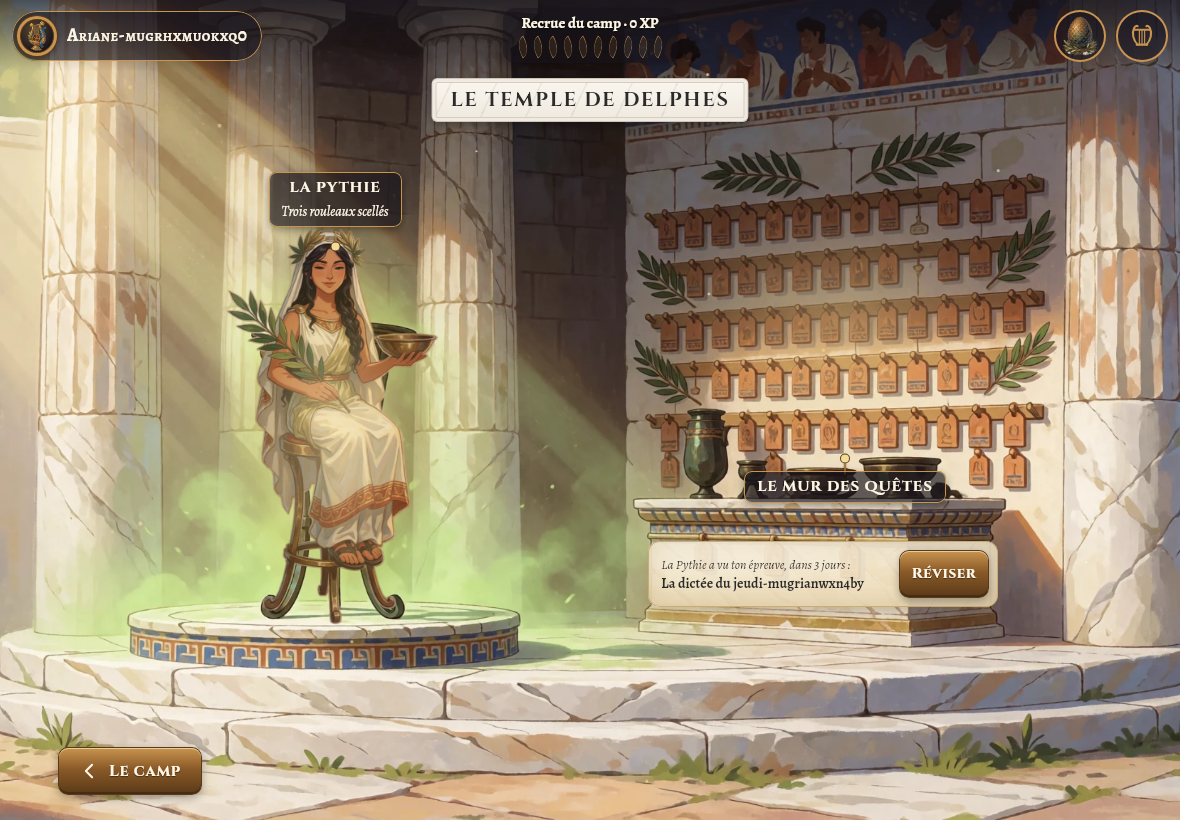
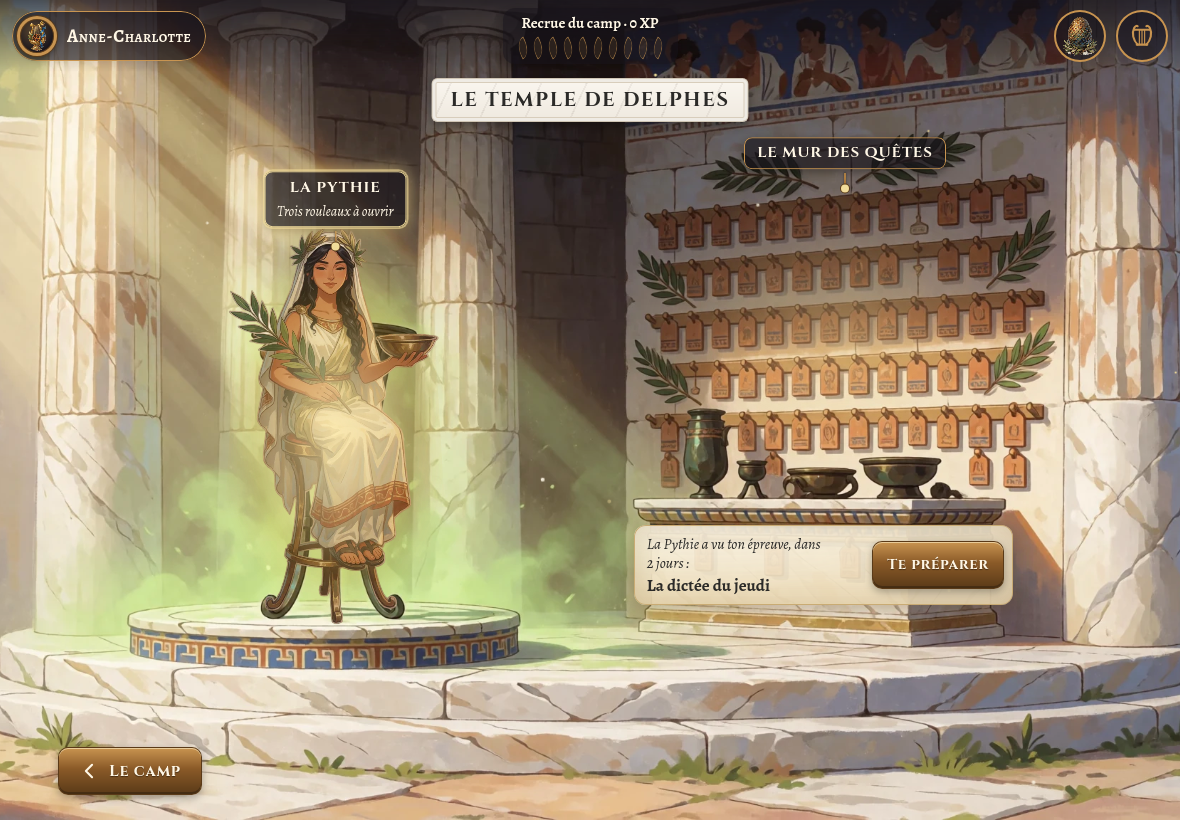
Immersion wave: playability walk with real names and the new objects; UI3a screenshots refreshed
- The walk uses Anne-Charlotte, Élise-Marguerite, « La dictée du jeudi » and « Les fées de la
  clairière » (Ruling W12), deleting an earlier walk's copies first; new shots a03b (seal open),
  a04b (both names on their shields), a06b (the owl's hint), a07b (other levels), a09b (a photo in
  the lens); a04 fills two seal slots, a11 opens a never-copied work, the rotate still is paused
  mid-turn.
- WALK_OUT picks the output: a git-ignored scratch dir under web/test-results by default, or
  docs/reviews/ui3 to refresh the review baseline (this commit); compose.e2e.yaml passes it through.
- Small fixes seen in the shots: the altar card's « : » and « 2 jours » no longer wrap alone
  (narrow no-break space in ProphecyCard, no-break space in prophecyWhen).

diff --git a/web/e2e/playability-ui3.spec.ts b/web/e2e/playability-ui3.spec.ts
@@ -1,5 +1,6 @@
 import { test, expect } from './crashGuard';
-import type { Page } from '@playwright/test';
+import type { APIRequestContext, Page } from '@playwright/test';
+import { posix } from 'node:path';
 import {
   chooseLevel,
   closeOverlay,
@@ -10,18 +11,42 @@ import {
   redScan,
   skipOnboarding,
   stubSpeech,
-  uniqueName,
   waitForSceneSettled,
 } from './helpers';
 
-// UI3 playability walk (scenes spec §10): iPad-size screenshots of every place and overlay into
-// docs/reviews/ui3/<project>-<id>-<name>.png for the Opus playability/immersion review ("does
-// anything still look like a school form?"), then one `?debug` screenshot per scene to check the
-// hand-authored hotspots against their landmarks (docs/art/scenes.md). UI3a: title, library tent,
-// Delphi. UI3b appends its sections to SECTIONS and DEBUG_SHOTS.
-// Run: scripts/playwright.sh --config playwright.playability.config.ts playability-ui3
+// UI3 playability walk (scenes spec §10): iPad-size screenshots of every place and overlay,
+// <project>-<id>-<name>.png, for the Opus playability/immersion review ("does anything still look
+// like a school form?"), then one `?debug` screenshot per scene to check the hand-authored hotspots
+// against their landmarks (docs/art/scenes.md). UI3a: title, library tent, Delphi. UI3b appends its
+// sections to SECTIONS and DEBUG_SHOTS.
+//
+// Where the shots go - WALK_OUT, a path relative to the repo root (or absolute in the container):
+// - unset: web/test-results/walk-ui3, a scratch dir (git-ignored), so a walk run to look at the
+//   places never dirties the tracked review baseline:
+//     scripts/playwright.sh --config playwright.playability.config.ts playability-ui3
+// - docs/reviews/ui3: deliberately refreshes the review baseline (tracked PNGs), for a re-review:
+//     WALK_OUT=docs/reviews/ui3 scripts/playwright.sh --config playwright.playability.config.ts playability-ui3
+// compose.e2e.yaml passes WALK_OUT into the Playwright container.
+const OUT = posix.resolve('/work', process.env.WALK_OUT || 'web/test-results/walk-ui3');
 
-const OUT = '/work/docs/reviews/ui3';
+// Playability #26: a real long accented name shows real truncation. The playability config runs
+// one worker and only ipad-landscape walks the scenes (Ruling W12), so fixed names are safe - but
+// an earlier walk's copies are deleted first so the ritual never meets « Ce nom est déjà pris. ».
+const HERO = 'Anne-Charlotte';
+const LOCKED = 'Élise-Marguerite';
+const PROPHECY_TITLE = 'La dictée du jeudi';
+const DESK_TITLE = 'Les fées de la clairière';
+
+async function clearEarlierWalk(request: APIRequestContext) {
+  const profiles = (await (await request.get('/api/profiles')).json()) as { id: number; name: string }[];
+  for (const p of profiles.filter((x) => x.name === HERO || x.name === LOCKED)) {
+    expect((await request.delete(`/api/profiles/${p.id}`)).status()).toBe(204);
+  }
+  const texts = (await (await request.get('/api/texts')).json()) as { id: number; title: string }[];
+  for (const t of texts.filter((x) => x.title === PROPHECY_TITLE || x.title === DESK_TITLE)) {
+    expect((await request.delete(`/api/texts/${t.id}`)).status()).toBe(204);
+  }
+}
 
 interface Walk {
   page: Page;
@@ -113,6 +138,13 @@ async function titleSection(w: Walk) {
   await chooseLevel(ritual, '10H');
   await shot(w, 'a03-title-naming-ritual');
   await noRed(w, 'naming ritual');
+  const sealToggle = ritual.getByRole('button', { name: "Protéger ton bouclier d'un sceau" });
+  await sealToggle.click();
+  await expect(sealToggle).toHaveAttribute('aria-expanded', 'true');
+  await expect(ritual.getByLabel('Ton sceau à quatre chiffres')).toBeVisible();
+  await shot(w, 'a03b-title-ritual-seal-open');
+  await sealToggle.click();
+  await expect(sealToggle).toHaveAttribute('aria-expanded', 'false');
   await ritual.getByRole('button', { name: 'Accrocher mon bouclier' }).click();
   await expectCamp(page);
   w.profileId = Number(page.url().match(/#\/p\/(\d+)\//)?.[1]);
@@ -120,18 +152,25 @@ async function titleSection(w: Walk) {
   await skipOnboarding(page);
   await skipGreeting(w, 'camp');
 
-  // A protected hero's sealed parchment. `w.heroName` is already unique (uniqueName); appending a
-  // fixed suffix (no second uniqueName wrap - profile.name has a 30-char server limit, and stacking
-  // two random suffixes overflowed it, so the create 422'd and left `locked` undefined).
+  // A protected hero's wax seal, two digits in: the elision « Le sceau d'Élise-Marguerite ».
   const res = await page.request.post('/api/profiles', {
-    data: { name: `${w.heroName}-code`, avatar: 'trident', level: '10H', pin: '4321' },
+    data: { name: LOCKED, avatar: 'trident', level: '10H', pin: '4321' },
   });
   expect(res.ok(), await res.text()).toBeTruthy();
   const locked = (await res.json()).id as number;
   await page.goto(`/#/p/${locked}/camp`);
   await expect(page.getByTestId('pin-gate')).toBeVisible();
+  await page.getByLabel('Tes quatre chiffres').fill('43');
   await shot(w, 'a04-title-pin-seal');
   await noRed(w, 'pin seal');
+
+  // Playability #26: the two real names on their shields (a02 ran before either existed).
+  await page.goto('/');
+  await enterTitle(page);
+  await expect(page.getByTestId(`title-hero-${w.profileId}`)).toBeVisible();
+  await expect(page.getByTestId(`title-hero-${locked}`)).toBeVisible();
+  await waitForOverlaySettled(page, 'title-shields');
+  await shot(w, 'a04b-title-shields-named');
 }
 
 async function librarySection(w: Walk) {
@@ -146,14 +185,29 @@ async function librarySection(w: Walk) {
   await skipGreeting(w, 'library');
   await shot(w, 'a06-library-tent');
   await noRed(w, 'library tent');
+  // Playability #23: the owl is a character - tapped, she gives a hint in the dialogue box.
+  await page.getByTestId('library-owl').click();
+  await expect(page.getByTestId('dialogue-box')).toBeVisible();
+  await settleDialogue(page);
+  await shot(w, 'a06b-library-owl-hint');
+  await page.getByTestId('dialogue-skip').click();
+  await expect(page.getByTestId('dialogue-box')).toHaveCount(0);
   await page.getByTestId('library-shelves').click();
   await waitForOverlaySettled(page, 'overlay-shelves');
   await shot(w, 'a07-library-shelves');
   await noRed(w, 'shelves');
+  const shelves = page.getByTestId('overlay-shelves');
+  await shelves.getByRole('button', { name: 'Autres niveaux' }).click();
+  await chooseLevel(shelves, 'Tous');
+  const others = shelves.getByRole('heading', { name: 'Autres parchemins' });
+  await others.scrollIntoViewIfNeeded();
+  await expect(others).toBeInViewport();
+  await shot(w, 'a07b-library-shelves-other-levels');
   await closeOverlay(page);
   await page.getByTestId('library-desk').click();
   await waitForOverlaySettled(page, 'overlay-desk');
-  await page.getByLabel('Titre').fill(uniqueName('Les fées de la clairière'));
+  await page.getByLabel('Titre').fill(DESK_TITLE);
+  // 13 words: the gauge asks for more (« il en faut au moins 80 »).
   await page.getByLabel('Texte').fill('Les fées dansent dans la clairière. Elles chantent et les oiseaux les écoutent.');
   await shot(w, 'a08-library-desk');
   await noRed(w, 'desk');
@@ -161,11 +215,18 @@ async function librarySection(w: Walk) {
   await page.getByTestId('library-lens').click();
   await waitForOverlaySettled(page, 'overlay-lens');
   await shot(w, 'a09-library-lens');
+  const lens = page.getByTestId('overlay-lens');
+  await lens.getByTestId('scan-input').first().setInputFiles('/work/server/tests/fixtures/scan/handout.png');
+  await expect(lens.getByTestId('btn-scan-read')).toBeVisible();
+  await shot(w, 'a09b-library-lens-photo');
   await closeOverlay(page);
   await page.getByTestId('library-portal').click();
   await waitForOverlaySettled(page, 'overlay-portal');
   await shot(w, 'a10-library-portal');
-  await page.getByTestId('overlay-portal').getByTestId('work-card').first().click();
+  // A never-copied work shows the scribes' next step; the shared database may hold copies of all.
+  const portal = page.getByTestId('overlay-portal');
+  const never = portal.locator('[data-testid="work-card"][data-status="never"]');
+  await ((await never.count()) > 0 ? never : portal.getByTestId('work-card')).first().click();
   await waitForOverlaySettled(page, 'overlay-portal-work');
   await shot(w, 'a11-library-portal-work');
   await noRed(w, 'portal');
@@ -179,7 +240,7 @@ async function delphiSection(w: Walk) {
   const { page } = w;
   const due = new Date(Date.now() + 3 * 86_400_000).toISOString().slice(0, 10);
   await createText(page.request, {
-    title: uniqueName('La dictée du jeudi'),
+    title: PROPHECY_TITLE,
     body: 'Les fées dansent dans la clairière. Elles chantent et les oiseaux les écoutent.',
     level: '10H',
     due_date: due,
@@ -190,6 +251,7 @@ async function delphiSection(w: Walk) {
   await expectScene(page, 'delphi');
   await expect(page.getByTestId('dialogue-box')).toBeVisible();
   await settleDialogue(page);
+  await expect(page.getByTestId('dialogue-text')).toContainText('Approche.');
   await shot(w, 'a12-delphi-pythia-greeting');
   await skipGreeting(w, 'delphi');
   await shot(w, 'a13-delphi-temple');
@@ -197,8 +259,11 @@ async function delphiSection(w: Walk) {
   await page.getByTestId('delphi-pythia').click();
   await waitForOverlaySettled(page, 'overlay-pythia');
   await shot(w, 'a14-delphi-pythia-scrolls');
-  await page.getByTestId('scroll-ecole').getByTestId('scroll-open').click();
-  await expect(page.getByTestId('oracle-monster-hydre')).toBeVisible();
+  const oracle = page.getByTestId('overlay-pythia');
+  await oracle.getByTestId('scroll-ecole').getByTestId('scroll-open').click();
+  await expect(oracle.getByTestId('oracle-monster-hydre')).toBeVisible();
+  // The school scroll has finished unrolling (the same wait as scenes-delphi.spec.ts).
+  await expect.poll(() => oracle.evaluate((e) => e.getAnimations({ subtree: true }).length)).toBe(0);
   await shot(w, 'a15-delphi-ecole-picker');
   await page.getByTestId('oracle-cancel').click();
   await closeOverlay(page);
@@ -226,19 +291,24 @@ const DEBUG_SHOTS: { hash: string; sceneId: string; name: string }[] = [
 test('UI3 playability walk', async ({ page }, testInfo) => {
   test.setTimeout(600_000);
   const project = testInfo.project.name;
-  // Task 13 controller ruling 3: a unique hero name, not a bare `Ariane-${project}` - avoids a 409
-  // from profile.name's UNIQUE constraint on a rerun (uniqueName's own doc comment in helpers.ts).
-  const w: Walk = { page, project, profileId: 0, heroName: uniqueName('Ariane'), notes: [] };
+  const w: Walk = { page, project, profileId: 0, heroName: HERO, notes: [] };
   const origins = new Set<string>();
   page.on('request', (req) => {
     const url = new URL(req.url());
     if (url.protocol === 'http:' || url.protocol === 'https:') origins.add(url.origin);
   });
   await stubSpeech(page);
+  await clearEarlierWalk(page.request);
   try {
     if (project === 'ipad-portrait') {
       await page.goto('/');
       await expect(page.getByTestId('rotate-screen')).toBeVisible();
+      // The still shows the tablet mid-turn (playability #27): paused at 60 % of its 2.4 s turn.
+      await page.locator('.rotate-icon').evaluate((e) => {
+        const a = e.getAnimations()[0];
+        a.pause();
+        a.currentTime = 0.6 * 2400;
+      });
       await shot(w, 'a01-rotate-screen');
       return;
     }

diff --git a/web/src/lib/world/scenes/camp.test.ts b/web/src/lib/world/scenes/camp.test.ts
@@ -125,7 +125,7 @@ describe('camp hub wording (playability #2, #6, #16)', () => {
   });
 
   it('says when a prophecy falls due in words', () => {
-    expect([0, 1, 3].map(prophecyWhen)).toEqual(["aujourd'hui", 'demain', 'dans 3 jours']);
+    expect([0, 1, 3].map(prophecyWhen)).toEqual(["aujourd'hui", 'demain', 'dans 3 jours']);
   });
 
   it('shows the weekly goal as parchments defended', () => {
@@ -159,7 +159,7 @@ describe('camp hub wording (playability #2, #6, #16)', () => {
       { text_id: 1, title: 'La mer', due_date: '2026-09-27', days_left: 3 },
     ];
     expect(nearestProphecy(camp({ prophecies }))?.title).toBe('La mer');
-    expect(nextStepLine(camp({ prophecies }))).toBe("La Pythie a vu ta prochaine épreuve, dans 3 jours. Viens t'y préparer !");
+    expect(nextStepLine(camp({ prophecies }))).toBe("La Pythie a vu ta prochaine épreuve, dans 3 jours. Viens t'y préparer !");
     const ready = camp({ boss: { tier_available: 1, tiers_won: [], active_quest_id: null } });
     expect(nextStepLine(ready)).toBe("Le sentier de la bataille est ouvert : Éris t'attend.");
     expect(nextStepLine(camp())).toBe("Les parchemins t'attendent, sous la tente.");

diff --git a/web/src/components/places/ProphecyCard.svelte b/web/src/components/places/ProphecyCard.svelte
@@ -24,7 +24,8 @@
 
 <div class="kit-parchment prophecy-card" class:is-compact={compact} data-testid={testId}>
   <p class="prophecy-card-text">
-    <span class="prophecy-card-when">La Pythie a vu ton épreuve, {prophecyWhen(prophecy.days_left)} :</span>
+    <!-- A narrow no-break space before « : » - the colon never wraps onto a line of its own. -->
+    <span class="prophecy-card-when">La Pythie a vu ton épreuve, {prophecyWhen(prophecy.days_left)} :</span>
     <span class="prophecy-card-title">{prophecy.title}</span>
   </p>
   <button type="button" class="kit-bronze" onclick={() => onReview(prophecy.text_id)}>Te préparer</button>

diff --git a/web/playwright.playability.config.ts b/web/playwright.playability.config.ts
@@ -1,7 +1,8 @@
 import { defineConfig, devices } from '@playwright/test';
 
-// Playability walks (scenes spec §10): one long test per iPad orientation, screenshots into
-// docs/reviews/<milestone>/ (playability-ui3.spec.ts). Run with
+// Playability walks (scenes spec §10): one long test per iPad orientation. Screenshots go to a
+// scratch dir under web/test-results, or to the tracked docs/reviews/<milestone>/ baseline with
+// WALK_OUT (playability-ui3.spec.ts's header has both commands). Run with
 // scripts/playwright.sh --config playwright.playability.config.ts playability-ui3
 export default defineConfig({
   testDir: './e2e',

diff --git a/web/src/lib/world/prophecy.ts b/web/src/lib/world/prophecy.ts
@@ -7,7 +7,8 @@ import type { CampResponse } from './types';
 export function prophecyWhen(daysLeft: number): string {
   if (daysLeft <= 0) return "aujourd'hui";
   if (daysLeft === 1) return 'demain';
-  return `dans ${daysLeft} jours`;
+  // A no-break space: « 2 » never ends a line with « jours » on the next (the altar card, walk a13).
+  return `dans ${daysLeft} jours`;
 }
 
 /** The prophecy a place shows: the one falling due first. */
